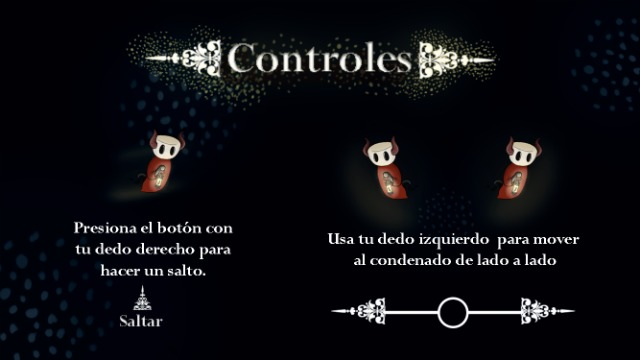
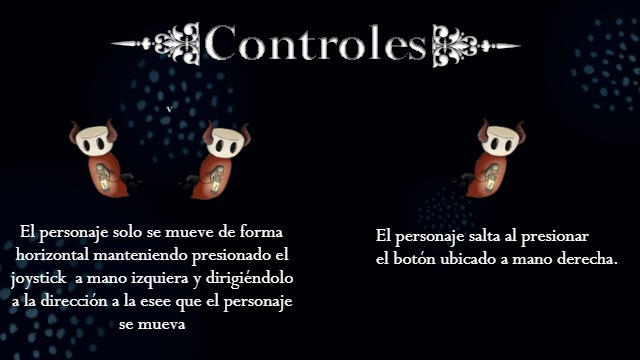
Todas las imagenes añadidas y se cambian botones

diff --git a/endless_keeper/www/js/main.js b/endless_keeper/www/js/main.js
@@ -26,13 +26,6 @@ var gameOptions={
 
 var game = new Phaser.Game(gameOptions.gameWidth, gameOptions.gameHeight, Phaser.CANVAS, 'game');
 WebFontConfig = {
-
-    //  'active' means all requested fonts have finished loading
-    //  We set a 1 second delay before calling 'createText'.
-    //  For some reason if we don't the browser cannot render the text the first time it's created.
-    // active: function() { game.time.events.add(Phaser.Timer.SECOND, createText, this); },
-
-    //  The Google Fonts we want to load (specify as many as you like in the array)
     google: {
       families: ['Roboto Slab']
     }
@@ -70,6 +63,8 @@ var boot = {
         game.load.image('botonCreditos','img/Botones/Boton_creditos.png', 171, 37);
         game.load.image('botonInicio','img/Botones/Boton_inicio.png', 171, 37);
         game.load.image('botonReiniciar','img/Botones/reiniciar.png', 171, 37);
+        game.load.image('botonAdelante','img/Botones/leftArrow.png', 171, 37);
+        game.load.image('botonAnterior','img/Botones/rightArrow.png', 171, 37);
         // assets para los background
         game.load.image('bgControles','img/Fondos/Controles.png');
         game.load.image('bgMenu','img/Fondos/FondoMenu.png');
@@ -77,6 +72,7 @@ var boot = {
         game.load.image('bgVacio','img/Fondos/FondoVacio.png');
         game.load.image('bgPreload','img/Fondos/FondoPreload.png');
         game.load.image('healthbg', 'img/healthbg.jpg');
+        game.load.image('bgControles2','img/Fondos/Controles2.jpg');
         // assets para el joystick
         game.load.spritesheet('gamepad', 'img/joystick/gamepad_spritesheet.png',100,100);
         // assets para el numero de intentos
@@ -100,7 +96,7 @@ var initGame={
 
         game.stage.backgroundColor = '#000';
         music=game.add.audio('musica');
-        music.volume -= 0.9;
+        music.volume -= 0.8;
         music.play();
         map = game.add.tilemap('map');
 
@@ -340,8 +336,22 @@ var controles ={
 	create:function() {
 		game.add.sprite(0, 0,'bgControles');
         var btnAtras = game.add.button(0,0,'botonAtras',Inicio,this);
-        btnAtras.scale.setTo(0.8); 	
+        btnAtras.scale.setTo(0.8);
+        var btnAdelante= game.add.button(590,150,'botonAdelante',goToControles2,this);
         	
+	},
+	 update:function() {
+	}
+
+}
+
+var controles2 ={
+
+	create:function() {
+		game.add.sprite(0, 0,'bgControles2');
+        var btnAtras = game.add.button(0,0,'botonAtras',Inicio,this);
+        btnAtras.scale.setTo(0.8);	
+        var btnAnterior= game.add.button(10,150,'botonAnterior',goToControles,this);
 	},
 	 update:function() {
 	}
@@ -386,7 +396,9 @@ var gameOver= {
 }
 
 function Inicio(){
-    music.pause();
+    if(typeof music != "undefined"){
+        music.pause();
+    }
     game.state.start('Inicio');
 }
 function goToGame(){
@@ -397,7 +409,10 @@ function goToCreditos(){
     game.state.start('Creditos');
 }
 function goToControles(){
-    game.state.start('Controls');
+    game.state.start('Controles');
+}
+function goToControles2(){
+    game.state.start('Controles2');
 }
 function goToGameOver(){
     game.state.start('GameOver');
@@ -413,6 +428,7 @@ game.state.add('Inicio', inicio);
 game.state.add('Carga', carga);
 game.state.add('Creditos', creditos);
 game.state.add('Controles', controles);
+game.state.add('Controles2', controles2);
 game.state.add('GameOver', gameOver);
 game.state.add('Victory', victory);
 
